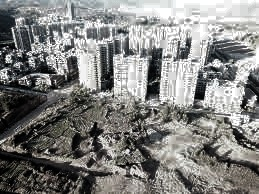
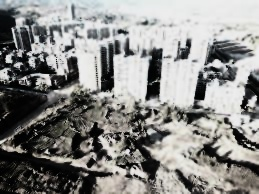
update image

diff --git a/main.py b/main.py
@@ -5,7 +5,7 @@ import basic_he
 DRAW_HISTOGRAM = False
 DRAW_PICS = False
 DRAW_3D_MAP = False
-METHOD = ["Histogram_Equalize", "WGIF_Based_Enhance"][0]
+METHOD = ["Histogram_Equalize", "WGIF_Based_Enhance"][1]
 RESTORT_COLOR = True
 
 
